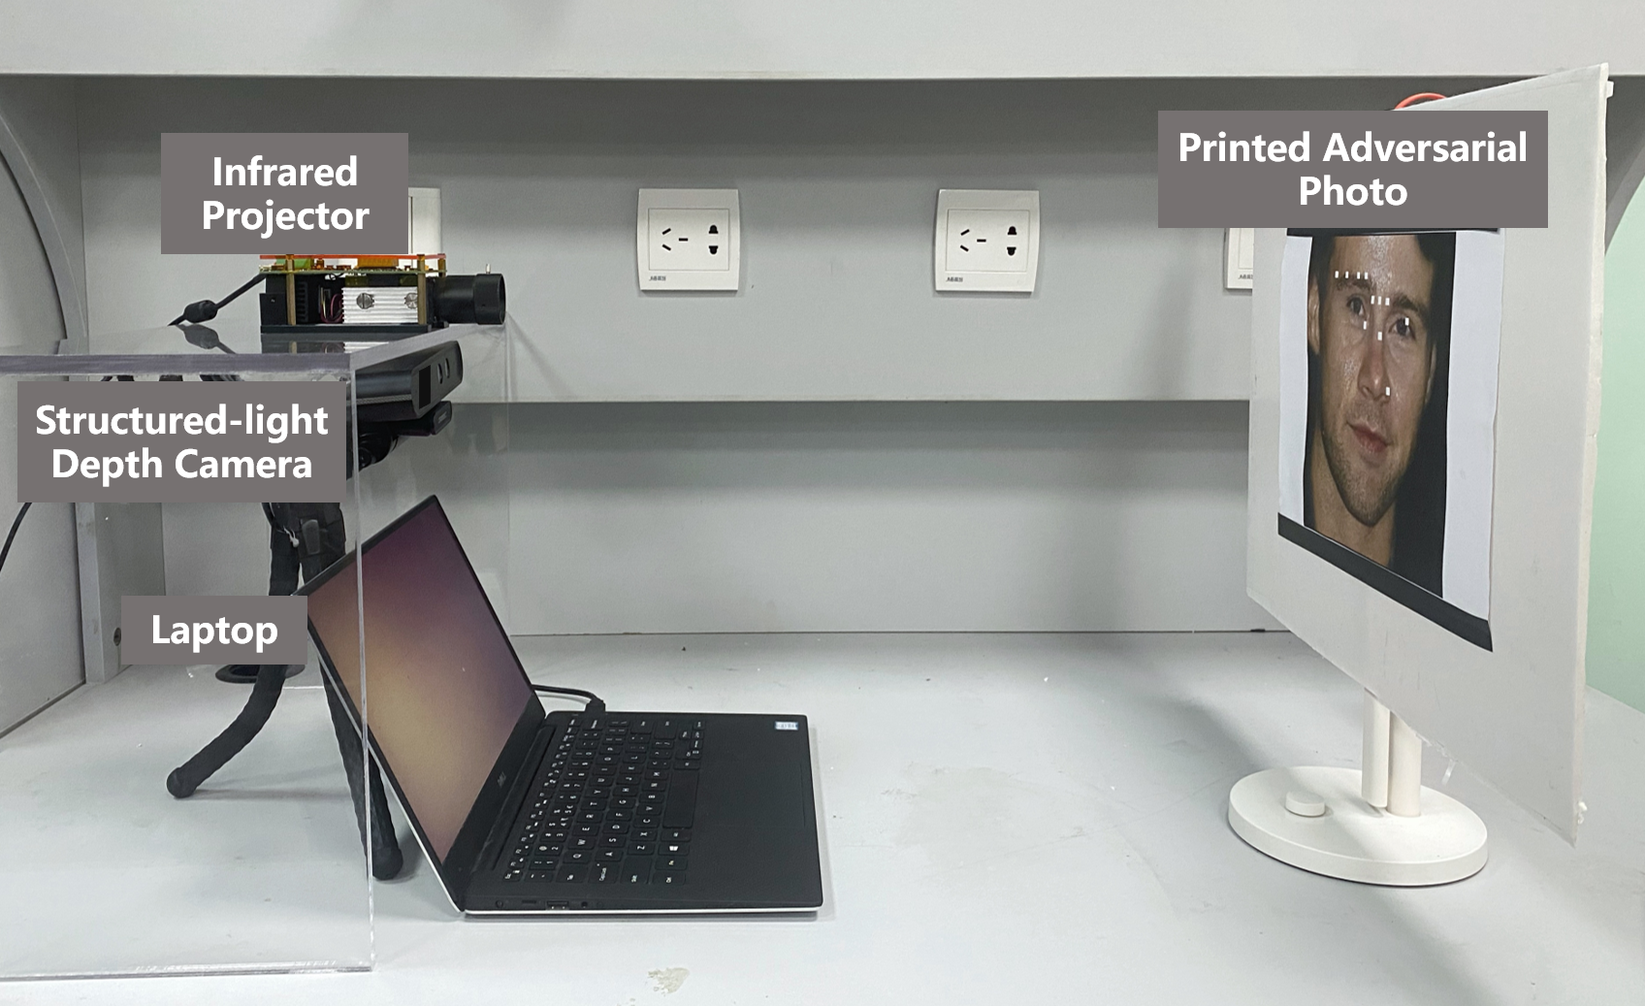
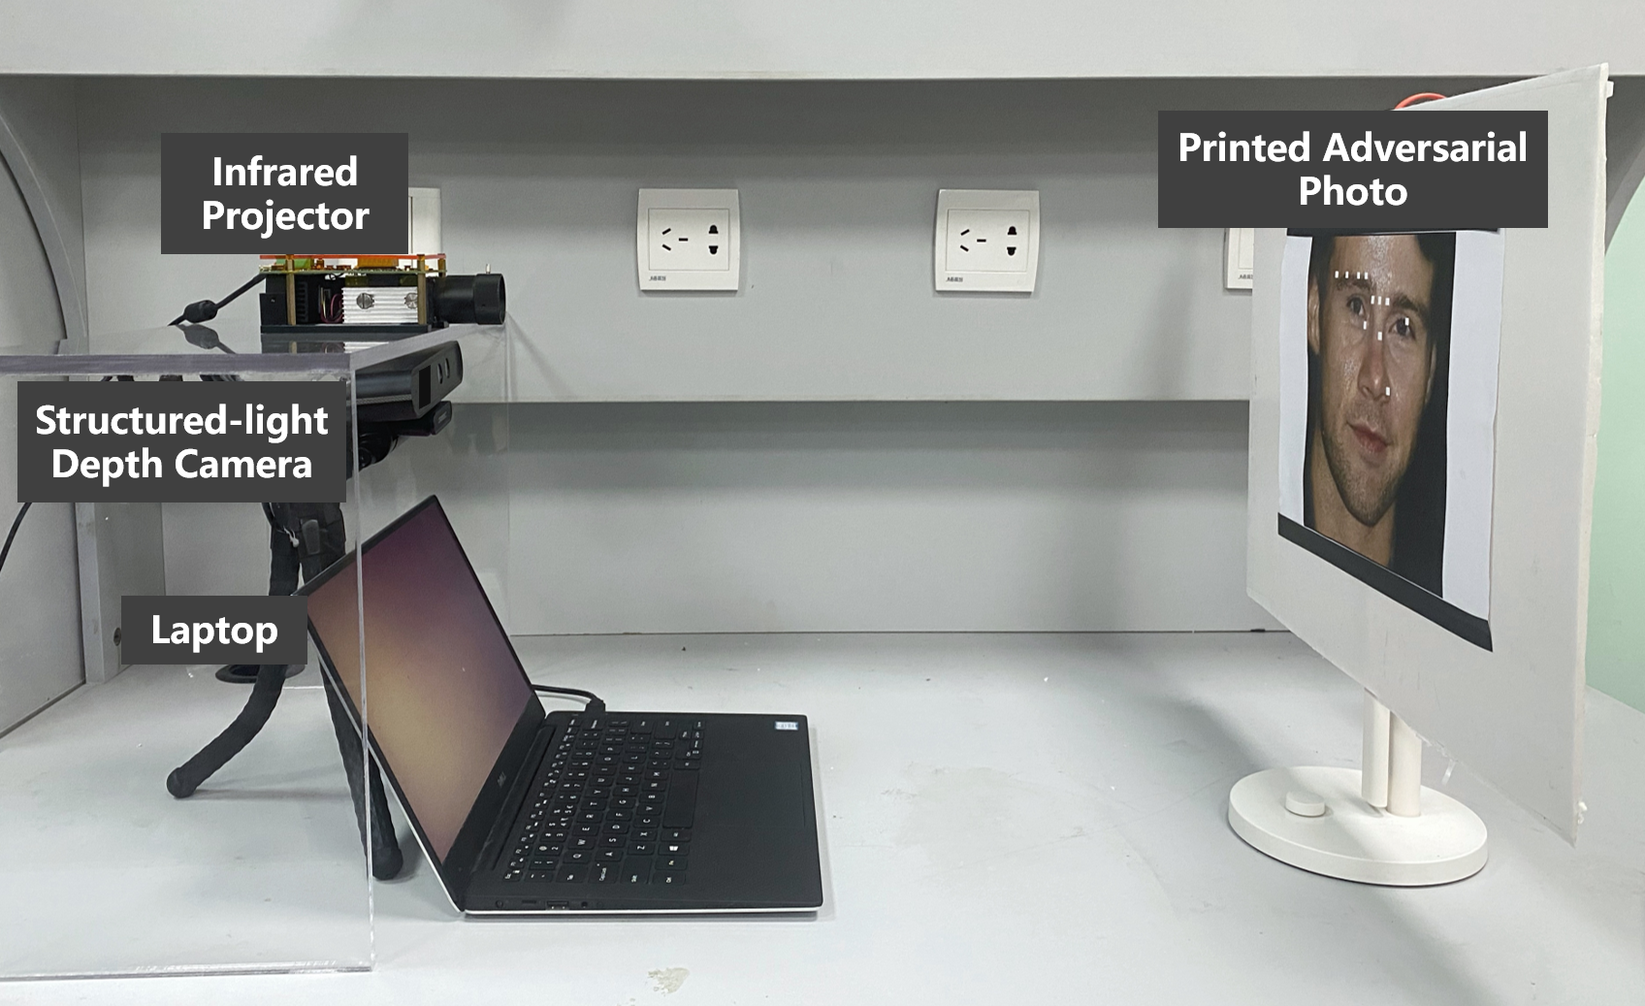
add commercial setup

diff --git a/sections/evaluation.tex b/sections/evaluation.tex
@@ -116,6 +116,13 @@ For each dataset, we select 20 images with different genders, ages, and races to
 %	\vspace{-0.1in}
 %\end{figure*}
 
+\begin{figure}[pt]
+	\centerline{\includegraphics[width = 0.48\textwidth]{figures/light_condition.pdf}}
+	\vspace{-0.15in}
+	\caption{Impact of \texttt{DepthFake} attacks under various light conditions.}
+	\label{light_condition}
+	\vspace{-0.1in}
+\end{figure}
 
 \subsection{Overall Performance}
 We first evaluate the overall performance of the Depth and RGB-D attacks on different people against three commercial liveness detection modules, i.e., Tencent Cloud, Baidu Cloud, and 3DiVi, under the default setting. 
@@ -135,32 +142,9 @@ Overall, our attack can achieve an attack success rate  over $63.8\%$ for the De
 %
 %Overall, all of our attacks can achieve over $32\%$ attack success rate for both different people and target systems (shown in in Appendix Tab.~\ref{overall}), which means that we can successfully attack the liveness detection in every 3 times on average. However, commercial face authentication systems generally provide 5 to 10 opportunities for users to validate, so that, our attack can easily attack the livenss detection module in commercial face authentication systems.
 
-\begin{figure}[pt]
-	\centerline{\includegraphics[width = 0.48\textwidth]{figures/light_condition.pdf}}
-	\vspace{-0.15in}
-	\caption{Impact of \texttt{DepthFake} attacks under various light conditions.}
-	\label{light_condition}
-	\vspace{-0.1in}
-\end{figure}
+
 
 \subsection{Impact of Light Condition}
-
-Then, we evaluate the light condition that may influence the attack effectiveness of \texttt{DepthFake}, including the illumination intensity and the color temperature. During the experiments, we use Tencent Cloud SDK with default thresholds as our target system and one volunteer as the victim.  
-To avoid the mutual interference between the light intensity and color temperature, we keep the color temperature to $6500~K$ when evaluating the impact of the illumination intensity, and keep the illumination intensity to $300~lx$ when evaluating the impact of the color temperature.
-
-\textbf{Illumination Intensity.} To investigate the impact of the illumination intensity on our attack, we set the background illumination intensity from $50~lx$ to $400~lx$ to conduct experiments.
-From the results shown in Fig.~\ref{light_condition} (left), we find that both the Depth attacks and the RGB-D attacks can achieve average attack success rates of over $70\%$.
-When the illumination intensity drops to $100~lx$, the attack success rate of the RGB-D attacks shows a slight decrease.
-The reason is that the camera suffers from more noises when capturing images at a low illumination intensity. Another finding is that the attack performance at $50~lx$ is better than that of $100~lx$. It is because the camera will compensate for the exposure when the illumination intensity is too low.
-At the same time, the attack success rate of the Depth attacks remains $\geq$$70\%$ across different illumination intensities. The reason is that the structured light depth camera uses an infrared scatter pattern to generate depth information, which is not subject to the interference from visible lights.
-
-
-\textbf{Color Temperature.} Similar to illumination intensity, our attack may be affected by the color temperature. To investigate its impact, we conduct experiments by setting the background color temperature from $3000~lx$ to $6500~lx$.
-The results are shown in Fig.~\ref{light_condition} (right). From the results, we find that the attack performance of both the Depth and RGB-D  attacks are unaffected as the color temperature changes, with attack success rates higher than $70\%$.
-%The results of RGB attacks are shown in Fig.~\ref{color_temp} (a). From the results, we find that the attack success rates under the default threshold (0.4) reach $99\%$ in different color temperatures. With higher thresholds of 0.6 and 0.8, the attack success rate decreases as the color temperature rise, indicating that the RGB adversarial photo performs better at low color temperatures.%The attack success rate in $3000~K$ color temperature can reach over $90\%$ under a threshold of 0.8, 
-%The results of RGB-D attacks are shown in Fig.~\ref{color_temp} (b). Similar to the illumination intensity, the color temperature of visible lights does not impact the performance of depth replay attacks. The RGB-D attacks can achieve an average attack success rate of $44.1\%$ with a depth threshold of 0.5.
-
-Therefore, for the impact of light conditions, we find that (1)  light conditions have impacts on the RGB-D attacks but hardly affect the Depth attacks because they are based on infrared lights, and (2) \texttt{DepthFake} attacks can achieve an attack success rate of over $70\%$ under most light conditions.
 
 \begin{figure}[pt]
 	\centerline{\includegraphics[width = 0.48\textwidth]{figures/camera_resolution.pdf}}
@@ -178,6 +162,24 @@ Therefore, for the impact of light conditions, we find that (1)  light conditio
 	\label{photo_quality}
 	\vspace{-0.15in}
 \end{figure*}
+
+
+Then, we evaluate the light condition that may influence the attack effectiveness of \texttt{DepthFake}, including the illumination intensity and the color temperature. During the experiments, we use Tencent Cloud SDK with default thresholds as our target system and one volunteer as the victim.  
+To avoid the mutual interference between the light intensity and color temperature, we keep the color temperature to $6500~K$ when evaluating the impact of the illumination intensity, and keep the illumination intensity to $300~lx$ when evaluating the impact of the color temperature.
+
+\textbf{Illumination Intensity.} To investigate the impact of the illumination intensity on our attack, we set the background illumination intensity from $50~lx$ to $400~lx$ to conduct experiments.
+From the results shown in Fig.~\ref{light_condition} (left), we find that both the Depth attacks and the RGB-D attacks can achieve average attack success rates of over $70\%$.
+When the illumination intensity drops to $100~lx$, the attack success rate of the RGB-D attacks shows a slight decrease.
+The reason is that the camera suffers from more noises when capturing images at a low illumination intensity. Another finding is that the attack performance at $50~lx$ is better than that of $100~lx$. It is because the camera will compensate for the exposure when the illumination intensity is too low.
+At the same time, the attack success rate of the Depth attacks remains $\geq$$70\%$ across different illumination intensities. The reason is that the structured light depth camera uses an infrared scatter pattern to generate depth information, which is not subject to the interference from visible lights.
+
+
+\textbf{Color Temperature.} Similar to illumination intensity, our attack may be affected by the color temperature. To investigate its impact, we conduct experiments by setting the background color temperature from $3000~lx$ to $6500~lx$.
+The results are shown in Fig.~\ref{light_condition} (right). From the results, we find that the attack performance of both the Depth and RGB-D  attacks are unaffected as the color temperature changes, with attack success rates higher than $70\%$.
+%The results of RGB attacks are shown in Fig.~\ref{color_temp} (a). From the results, we find that the attack success rates under the default threshold (0.4) reach $99\%$ in different color temperatures. With higher thresholds of 0.6 and 0.8, the attack success rate decreases as the color temperature rise, indicating that the RGB adversarial photo performs better at low color temperatures.%The attack success rate in $3000~K$ color temperature can reach over $90\%$ under a threshold of 0.8, 
+%The results of RGB-D attacks are shown in Fig.~\ref{color_temp} (b). Similar to the illumination intensity, the color temperature of visible lights does not impact the performance of depth replay attacks. The RGB-D attacks can achieve an average attack success rate of $44.1\%$ with a depth threshold of 0.5.
+
+Therefore, for the impact of light conditions, we find that (1)  light conditions have impacts on the RGB-D attacks but hardly affect the Depth attacks because they are based on infrared lights, and (2) \texttt{DepthFake} attacks can achieve an attack success rate of over $70\%$ under most light conditions.
 
 \subsection{Impact of Camera Resolution} 
 Commercial face authentication systems may use cameras of various resolutions to capture images, which may influence the performance of our attack. To study its impact, we conduct experiments by using cameras of different resolutions including 120p, 240p, 480p, 720p, and 960p. During the experiments, we employ Tencent Cloud and Baidu Cloud as our victim systems, where the former uses the entire image for detection while the latter only uses the face region. 
@@ -272,7 +274,7 @@ Therefore, \texttt{DepthFake} attacks can tolerate a horizontal or vertical dis
 
 \begin{figure}[pt]
 	\centerline{\includegraphics[width = 0.48\textwidth]{figures/related_position.pdf}}
-	\vspace{-0.15in}
+	\vspace{-0.1in}
 	\caption{Impact of relative positions between the camera and projector on \texttt{DepthFake} attacks. }
 	\label{realted_position}
 	\vspace{-0.1in}

diff --git a/sections/casestudy.tex b/sections/casestudy.tex
@@ -4,43 +4,18 @@
 %-------------------------------------------------------------------------------
 In this section, we evaluate the effectiveness of \texttt{DepthFake} attacks on a commercial access control device in the real world as a case study.
 
-
-
-\subsection{Experimental Setup}
-\textbf{Target Device.} We analyze a commercial access control device Baidu Rattlesnake Application Kit equipped with Baidu Face Authentication SDK and an Orbbec Astra depth camera, which has been used in airports, metros, banks and other critical infrastructures in China~\cite{baidu_customer}.
-The liveness detection module is set to RGB-D mode with default thresholds  (i.e., RGB:0.5, Depth:0.5).
-
-\textbf{Attack Devices.} For Depth attacks, we use an infrared projector DLP4500SL02 Evaluation Module and place it on the top of the camera with a distance of $20~mm$. For RGB attacks, we use a $400~mm\times300~mm$ printed adversarial photo of the legitimate user and place it in front of the target device with a distance of $500~mm$, as shown in Fig.~\ref{setup_2}.
-
-% \subsection{Attack Methodology}
-%The \texttt{DepthFake} attack consists of two steps: (1) modulating the desired scatter pattern from the victim's photo and generating the RGB adversarial example, and (2) launching the RGB-D attack to spoof the target device.
-
-%For the scatter pattern modulation, we first use an infrared camera to extract the template scatter pattern of the target device. Then, we obtain the victim's photo, estimate its depth information and modulate it to the desired scatter pattern. 
-%For the RGB adversarial attack, we use the victim's photo to generate the adversarial example, then print and put it in front of the target device. 
-
-\subsection{Attack Performance}
-We conduct experiments with the Baidu Rattlesnake Application Kit on five legitimate users.
-Before experiments, we first generate the users' modulated structured light scatter patterns and their RGB adversarial photos.
-During attacks, we cover the scatter projector of the target depth camera, and use the infrared projector to project the modulated scatter pattern on the printed adversarial photo. Then, the depth camera will feed the captured RGB and depth images into the face authentication system of the target device, and  output the authentication results.
-
-An illustration of the real-world \texttt{DepthFake} attack against the commercial access control device is shown in Fig.~\ref{compare}. The results show that 3D liveness detection can defend the naive photo replay attack, but is not effective when against the \texttt{DepthFake} attack. 
-
-To illustrate the effectiveness of \texttt{DepthFake} attacks quantitatively, we launch attacks for 1000 frames per user, and record the attack success rate and the max continuous attack success frames.
-As shown in Tab.~\ref{commercial_asr}, we find that our attack is effective against five users, and can achieve an average attack success rate of $60.64\%$. 
-Meanwhile, the results demonstrate that our attack can succeed over 6 continuous frames, indicating the feasibility of our attacks against  commercial products utilizing multiple frames for liveness detection.
-
 \begin{figure}[pt]
 	\centerline{\includegraphics[width = 0.48\textwidth]{figures/commercial_setup.png}}
 	\vspace{-0.1in}
-	\caption{Experimental setup on commercial access control device.}
-	\vspace{-0.15in}
+	\caption{Experimental setup against an commercial access control device. An infrared projector is used to project a structured light scatter pattern onto an adversarial photo of a legitimate user present in front of the target module.}
+	\vspace{-0.1in}
 	\label{setup_2}
 \end{figure}
 \begin{figure}[pt]
 	\centerline{\includegraphics[width = 0.48\textwidth]{figures/commercial_compare.png}}
 	\vspace{-0.1in}
 	\caption{An illustration of the face authentication results on the real user, the photo replay attack and the \texttt{DepthFake} attack.}
-	\vspace{-0.15in}
+	\vspace{-0.1in}
 	\label{compare}
 \end{figure}
 
@@ -70,3 +45,27 @@ Meanwhile, the results demonstrate that our attack can succeed over 6 continuous
 	\end{center}
 	\vspace{-0.15in}
 \end{table}
+
+\subsection{Experimental Setup}
+\textbf{Target Device.} We analyze a commercial access control device Baidu Rattlesnake Application Kit equipped with Baidu Face Authentication SDK and an Orbbec Astra depth camera, which has been used in airports, metros, banks and other critical infrastructures in China~\cite{baidu_customer}.
+The liveness detection module is set to RGB-D mode with default thresholds  (i.e., RGB:0.5, Depth:0.5).
+
+\textbf{Attack Devices.} For Depth attacks, we use an infrared projector DLP4500SL02 Evaluation Module and place it on the top of the camera with a distance of $20~mm$. For RGB attacks, we use a $400~mm\times300~mm$ printed adversarial photo of the legitimate user and place it in front of the target device with a distance of $500~mm$, as shown in Fig.~\ref{setup_2}.
+
+% \subsection{Attack Methodology}
+%The \texttt{DepthFake} attack consists of two steps: (1) modulating the desired scatter pattern from the victim's photo and generating the RGB adversarial example, and (2) launching the RGB-D attack to spoof the target device.
+
+%For the scatter pattern modulation, we first use an infrared camera to extract the template scatter pattern of the target device. Then, we obtain the victim's photo, estimate its depth information and modulate it to the desired scatter pattern. 
+%For the RGB adversarial attack, we use the victim's photo to generate the adversarial example, then print and put it in front of the target device. 
+
+\subsection{Attack Performance}
+We conduct experiments with the Baidu Rattlesnake Application Kit on five legitimate users.
+Before experiments, we first generate the users' modulated structured light scatter patterns and their RGB adversarial photos.
+During attacks, we cover the scatter projector of the target depth camera, and use the infrared projector to project the modulated scatter pattern on the printed adversarial photo. Then, the depth camera will feed the captured RGB and depth images into the face authentication system of the target device, and  output the authentication results.
+
+An illustration of the real-world \texttt{DepthFake} attack against the commercial access control device is shown in Fig.~\ref{compare}. The results show that 3D liveness detection can defend the naive photo replay attack, but is not effective when against the \texttt{DepthFake} attack. 
+
+To illustrate the effectiveness of \texttt{DepthFake} attacks quantitatively, we launch attacks for 1000 frames per user, and record the attack success rate and the max continuous attack success frames.
+As shown in Tab.~\ref{commercial_asr}, we find that our attack is effective against five users, and can achieve an average attack success rate of $60.64\%$. 
+Meanwhile, the results demonstrate that our attack can succeed over 6 continuous frames, indicating the feasibility of our attacks against  commercial products utilizing multiple frames for liveness detection.
+

diff --git a/sections/attackdesign.tex b/sections/attackdesign.tex
@@ -307,12 +307,40 @@ By implementing the color calibration, we can get a desired adversarial photo as
 
 \textbf{Black-box Adversarial Example Generation.}
 With the selected perturbation color and size, we then generate the adversarial perturbations $\theta$ that can bypass the RGB-based liveness detection in the digital world.
-In this paper, we consider the RGB-based liveness detection to be a black-box and thus we can only get the confidence scores of the liveness detection results. As a result, we propose a query-based evolutionary strategy to generate the adversarial perturbations, as shown in Algorithm~\ref{alg1} in the Appendix.
+In this paper, we consider the RGB-based liveness detection to be a black-box and thus we can only get the confidence scores of the liveness detection results. As a result, we propose a query-based evolutionary strategy to generate the adversarial perturbations, as shown in Algorithm~\ref{alg}.
 Specifically, we use a printed photo $Z$ as the input and utilize a 2D adversarial perturbation unit with a size of $w\times h$  to scan through its face region boxed by the face authentication system. Each time after adding an adversarial perturbation unit, we get the liveness confidence score from the SDKs or APIs and retain the adversarial perturbation unit that can raise the liveness confidence score. 
 Different from other black-box adversarial attacks, we do not have to consider the stealthiness of adversarial examples in this paper. As a result, we do not consider the shortest distance between the adversarial example and the original image during optimization. 
 
 After scanning the whole face region, we extract the adversarial perturbation $\theta$ and apply it to the original image $X$ to form the digital adversarial example $\widehat{Z}$,  which is then printed and captured as the physical adversarial photo $\widehat{Z}_p$. 
 
+\begin{algorithm}[t]
+	%\textsl{}\setstretch{1.8}
+	\renewcommand{\algorithmicrequire}{\textbf{Input:}}
+	\renewcommand{\algorithmicensure}{\textbf{Output:}}
+	\caption{Black-box Adversarial Perturbation Generation}
+	\label{alg}
+	\begin{algorithmic}[1]
+		\REQUIRE Printing-Capturing Pricess $C[P(\cdot)]$, the legitimate user's RGB image $X$, RGB-based liveness detection black-box model $M$ and its liveness  $Threshold$, perturbation uint size $(w, h)$
+		\STATE Capture the printed RGB image $X$ as $Z = C[(P(X)]$
+		\STATE Input $Z$ into $D$, and the model returns  face position coordinates$(X_1,Y_1,X_2,Y_2)$ and confidence-score $S_l$. 
+		\STATE $Z_{init} \leftarrow Z$
+		\STATE $x \leftarrow X_1$
+		\STATE $y \leftarrow Y_1$
+		\REPEAT
+		\STATE $Z_{temp} \leftarrow Z$
+		\STATE Update $Z_{temp}$: Set the $Z_{temp}^{(i,j)}$ into $(R,G,B)_{white}$, where $x<=i<=x+w,y<=j<=y+h$
+		\STATE Input $Z_{temp}$ into $M$, and get confidence score $S_t$. 
+		\IF{$S_t>S_l$}
+		\STATE Update $Z \leftarrow X_{temp}$, $S_l \leftarrow S_t$
+		\ENDIF
+		\STATE $x \leftarrow x+w$ and  $y \leftarrow y+h$
+		\UNTIL $S_l>Threshold$
+		\STATE $\theta \leftarrow Z-Z_{init}$
+		\STATE Map the $\delta$ to original RGB image $X$ to form the digital adversarial example $\widehat{Z}$
+		\ENSURE The digital world adversarial example $\widehat{Z}$.
+	\end{algorithmic}
+\end{algorithm}
+\vspace{-0.1in}  
 
 \subsubsection{Face Region Alignment}
 To align the RGB adversarial photo and the depth scatter pattern to ensure a uniform RGB-D attack, we localize five key face feature points (i.e., eyes, nose tip, and mouth corners) in both depth and RGB images. Then, we fix the distance between the projector and the printed RGB adversarial photo, then align the feature points by adjusting the position and angle of the photo.

diff --git a/sections/conclusion.tex b/sections/conclusion.tex
@@ -1,6 +1,6 @@
 \section{Conclusion}
 
-In this paper, we investigate the possibility of spoofing  face authentication systems with a single  photo by bypassing its 3D liveness detection. 
-We find that modulated structured light scatter patterns can spoof the depth camera to create fake face depth information. Meanwhile, the 3D liveness detection is vulnerable to such fake depths and RGB adversarial examples. 
+In this paper, we investigate the possibility of spoofing  face authentication systems with a single photo by bypassing its 3D liveness detection. 
+We find that modulated structured light scatter patterns can spoof the depth camera to create the forgery depth information. Meanwhile, the 3D liveness detection is vulnerable to such forgery depths and RGB adversarial examples. 
 Based on it, we propose the \texttt{DepthFake} attack, which projects the modulated structured light scatter pattern on the adversarial photo of a legitimate user to spoof 3D liveness detection and thus the face authentication system.
-Evaluation with three commercial face authentication systems (Tencent Cloud, Baidu Cloud, and 3DiVi) and one commercial access control device demonstrates the effectiveness of \texttt{DepthFake}  attacks in the real world. In addition to the face authentication system analyzed in this paper, our work can be extended to other systems equipped with structured-light-based depth cameras. Future directions include exploring the security of the full workflow of face authentication and the security of other depth systems.
+Evaluation with three commercial face authentication systems (Tencent Cloud, Baidu Cloud, and 3DiVi) and one commercial access control device demonstrates the effectiveness of \texttt{DepthFake}  attacks in the real world. In addition to the face authentication system analyzed in this paper, our work can be extended to other systems equipped with structured light depth cameras. Future directions include exploring the security of the full workflow of face authentication and the security of other depth systems.

diff --git a/sections/discussion.tex b/sections/discussion.tex
@@ -2,7 +2,7 @@
 %-------------------------------------------------------------------------------
 \section{Discussion}
 %-------------------------------------------------------------------------------
-%In this section, we first discuss the IR replay attack that can spoof the IR-based liveness detection which is another way of liveness detection in face authentication systems beyond using RGB and depth images. 
+The \texttt{DepthFake} attack exploits vulnerabilities in the structured light depth camera to forge non-existent depth information and spoof the liveness detection module in 3D face authentication systems for illegal access. To make the 3D face authentication more secure, in this section, we discuss the potential countermeasures and limitations against \texttt{DepthFake} attacks.
 %Then, we present the countermeasures and limitations of \texttt{DepthFake}.
 
 %\subsection{IR Replay attack}
@@ -19,8 +19,7 @@
 
 
 \subsection{Countermeasure}
-\texttt{DepthFake} attacks exploit vulnerabilities in the structured light depth camera to forge non-existent depth information and spoof the liveness detection module in 3D face authentication systems for illegal access.
-In this section, we discuss the potential countermeasures against \texttt{DepthFake} attacks.
+In this subsection, we discuss the potential countermeasures against \texttt{DepthFake} attacks.
 
 \textbf{Detection Model Improvement. } \texttt{DepthFake} attacks exploit the vulnerabilities of deep-learning-based liveness detection algorithms in the RGB part. 
 As a result, liveness detection methods with handcrafted features, e.g., LBP~\cite{de2012lbp, boulkenafet2015face}, SIFT~\cite{patel2016secure}, SURF~\cite{boulkenafet2016face}, HOG~\cite{komulainen2013context} may help increase the robustness of the model and thus defend our attacks. 
